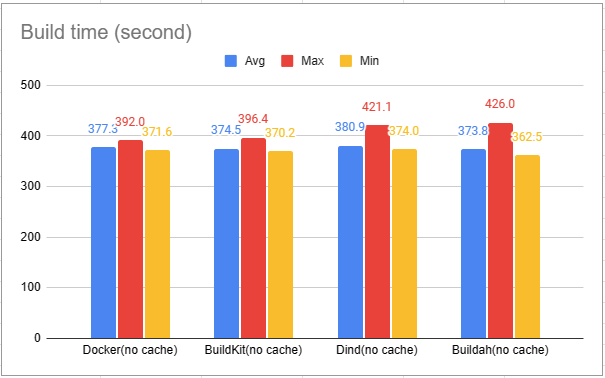
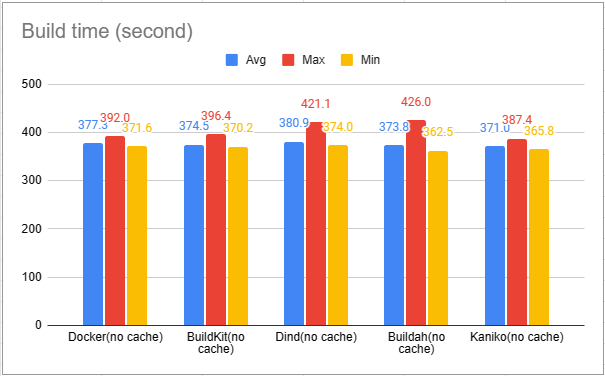
fix: article typo and some image

diff --git a/docs/self-paced-labs/tool_compare_lab/index.md b/docs/self-paced-labs/tool_compare_lab/index.md
@@ -6,24 +6,26 @@ description: ""
 
 ## 簡介
 
-在這篇文章中，將會簡介目前常見的幾種 Image Building Tools，分別是目前最常見的 Docker 以及新版本內建的 Buildkit、以及常被用在 CICD 過程中的三套 Build tool：Dind(Docker in Docker), Buildah, Kaniko 作比較。
+在這篇文章中，將會簡介目前常見的五種 Image Building Tools，分別是目前最常見的 Docker 以及新版本內建的 Buildkit、以及常被用在 CICD 過程中的三套 Build tool：Dind(Docker in Docker), Buildah, Kaniko 作比較。
 
-並比較這些工具在 build image 時花費的系統資源：
+比較這些上述五項  Image Building Tools 在 build image 時所花費的系統資源，如下述三項指標：
 
-- Memory
+- Memory(有 cache/ 無 cache)
 - Build Time
 - CPU time
-  以及不同工具最後 build 出的 Image Size 是否有所不同，以及探討其中的差異。
+
+並比較 build 完成後，Image Size 是否有所不同，並探討其中的差異。
 
 ## 測試環境
 
 本次 lab 統一使用 CNTUG Infra Labs OpenStack 上的 VM，規格如下：
 
-- Ubuntu 20.04
-- 4 cores vCPU
-- RAM：4G
+- Linux version: Ubuntu 20.04
+- vCPU: 4 cores
+- RAM：4 G
 - total Disk：30 GB
-- 測試方法會在下方 Labs 區塊中詳述
+
+測試方法會在下方 Labs 區塊中詳述
 
 ## 測試的 Image
 
@@ -42,7 +44,7 @@ description: ""
 
 ### Buildkit
 
-Buildkit 為 Docker 推出的實驗性功能，主打更高效能、並行的運作方式，也針對 cache, storage management 等功能做了許多優化，加速了以往使用 docker build image 的流程以及最佳化使用體驗，預設內建在 `Docker 18.09` 版本之後的 docker 內，啟用方式也十分簡易，`DOCKER_BUILDKIT=1 docker build .`即可使用，在 MacOS/Linux 環境下，也可透過建立 `/etc/docker/daemon.json`，並加入以下設定啟用 Buildkit。
+Buildkit 為 Docker 推出的實驗性功能，主打更高效能、並行的運作方式，也針對 cache, storage management 等功能做了許多優化，加速了以往使用 Docker build image 的流程以及最佳化使用體驗，預設內建在 `Docker 18.09` 版本之後的 Docker 內，啟用方式也十分簡易，`DOCKER_BUILDKIT=1 docker build .` 即可使用，在 MacOS/Linux 環境下，也可透過建立 `/etc/docker/daemon.json`，並加入以下設定啟用 Buildkit。
 
 ```
 {
@@ -54,7 +56,7 @@ Buildkit 為 Docker 推出的實驗性功能，主打更高效能、並行的運
 
 ### DinD
 
-全名為 Docker-in-Docker，顧名思義，在 docker 中再運行一個 docker container，因此在運行起來的 container 內，也能執行 `docker` 指令，通常會在運行 CICD pipeline 時使用，好處是環境隔離，每次會起新的 Docker daemon，但 build 的時候無法共享 cache，但可以透過 `cache-from` 去指定特定的 image 加入 build 流程。
+全名為 Docker-in-Docker，顧名思義，在 Docker 中再運行一個 Docker container，因此在運行起來的 container 內，也能執行 `docker` 指令，通常會在運行 CICD pipeline 時使用，好處是環境隔離，每次會起新的 Docker daemon，但 build 的時候無法共享 cache，但可以透過 `cache-from` 去指定特定的 image 加入 build 流程。
 
 ### Buildah
 
@@ -72,7 +74,7 @@ Buildah 是由 Red Hat 開發，幫助開發者 build 相容 OCI 標準的 conta
 
 - CPU：在計算 CPU 使用率的部分，透過 `Pseudo-files` 的方式，每次在 build image 時，讀取 `/sys/fs/cgroup/cpuacct/<TOOL_NAME>/$CONTAINER_ID/cpuacct.usage` 去比較 CPU 使用的資源量。
 - Memory：使用 time 指令 `/usr/bin/time -v` 列出單一指令消耗的資源，每項工具以同樣的 build 指令執行 15 次，比較最大值、最小值、平均值。
-- Image size：在比較過多套 container image 分析工具後，選擇使用 docker 內建的列出 `docker image ls` 查看 image size。
+- Image size：在比較過多套 container image 分析工具後，選擇使用 Docker 內建的列出 `docker image ls` 查看 image size。
 - build time: 使用 time 指令 `/usr/bin/time -v` 查看其中的 `Elapsed (wall clock) time`，同樣比較最大值、最小值、平均值。
 
 ### Docker
@@ -86,18 +88,21 @@ Buildah 是由 Red Hat 開發，幫助開發者 build 相容 OCI 標準的 conta
 
 ### DinD
 
-首先運行一個 dind container，並將 Dockerfile 等內容 mount 到 container 內，並開 shell 進到 dind container 中，再 build image，同樣比較有無 layer caching
+首先運行一個 dind container，並將 Dockerfile 等內容 mount 到 container 內，並開 shell 進到 dind container 中，再 build image，同樣比較有無 layer caching，此處使用 `--cache-from` 前面 build 好的 image 以加速 build 流程。
 
 ```shell=
 $ docker run -v $PWD:/workspace --privileged -d --name dind-test docker:dind
 $ docker exec -it dind-test /bin/sh
 $ cd workspace
 $ docker build -t <image-name>:<version> .
+
+# build image with cache
+$ docker build -t <pre-existing-image-name>:<version> . --cache-from <image-name>:<version>
 ```
 
 ### Buildkit
 
-啟用 Buildkit 後，再下跟 docker build 一樣的指令即可，如果有下載 Docker Desktop，則預設就會啟用
+啟用 Buildkit 後，再下跟 `docker build` 一樣的指令即可，如果有下載 Docker Desktop，則預設就會啟用
 
 ```shell=
 $ DOCKER_BUILDKIT=1 docker build .
@@ -120,7 +125,7 @@ $ buildah images
 
 ### Kaniko
 
-使用 docker 運行 kaniko v1.8.1 的 container，並將 build 好的 image 推到 dockerhub 上
+使用 Docker 運行 kaniko v1.8.1 的 container，並將 build 好的 image 推到 Dockerhub 上
 
 ```shell=
 $ docker run -v $PWD:/workspace \
@@ -143,7 +148,7 @@ Docker>Dind>Buildkit>Kaniko>Buildah
 
 ### Memory
 
-比較所使用的 memory，並分為 build 過程是否有使用 cache
+比較所使用的 memory，並分為 build 過程是否有使用 cache，至於 kaniko 的部分因目前尚未實作 local layer caching，因此此處僅計算沒有 cache 的 memory 使用部分。
 
 - 平均/最大/最小使用資源，單位為 Mib
 
@@ -169,7 +174,7 @@ Build time 的部分同樣比較有無使用 cache 的情況。
 
 #### Docker cache 機制
 
-`dokcerfile` 中的每條指令可視為一個 layer，在 build 的過程中會比較 Layer 與之前是否相同，若相同在使用 docker build 時會顯示 `Using cache` 以及使用了哪個 cache，cahce 則會存在 `/var/lib/docker/image/overlay2/imagedb/content/sha256` 底下，若是使用 BuildKit，則會顯示 `CACHED`，並拿之前的 build cache 來用，可以大幅減少 build image 的時間，若是 `dockerfile` 內容有更改或是使用到的檔案內容有更改就不用使用到 cache，而是會重新 build layer，且後續的 layer 也會需要重新 build，因此在撰寫 dockerfile 時可以將比較常更改的內容放在 `dokcerfile` 尾端。
+`Dockerfile` 中的每條指令可視為一個 layer，在 build 的過程中會比較 Layer 與之前是否相同，若相同在使用 `docker build` 時會顯示 `Using cache` 以及使用了哪個 cache，cahce 則會存在 `/var/lib/docker/image/overlay2/imagedb/content/sha256` 底下，若是使用 BuildKit，則會顯示 `CACHED`，並拿之前的 build cache 來用，可以大幅減少 build image 的時間，若是 `Dockerfile` 內容有更改或是使用到的檔案內容有更改就不用使用到 cache，而是會重新 build layer，且後續的 layer 也會需要重新 build，因此在撰寫 `Dockerfile` 時可以將比較常更改的內容放在 `Dockerfile` 尾端。
 
 ### Image Size
 
@@ -183,10 +188,10 @@ Build time 的部分同樣比較有無使用 cache 的情況。
 
 |                             | DinD | Kaniko | Buildah | BuildKit |
 | :-------------------------- | ---- | ------ | :------ | -------- |
-| run without privileged mode | X    | X      | O       | O        |
-| local layer caching         | X    | X      | O       | O        |
+| Run without privileged mode | X    | O      | O       | O        |
+| Local layer caching         | X    | X      | O       | O        |
 | Remote layer caching        | O    | O      | O       | O        |
-| need dockerfile             | O    | O      | X       | O        |
+| Need dockerfile             | O    | O      | X       | O        |
 
 ## 小結
 
@@ -196,5 +201,5 @@ Build time 的部分同樣比較有無使用 cache 的情況。
 
 - Docker 官方文件：https://docs.docker.com/build/buildkit/
 - 關於 Dind 優缺點的分析：https://jpetazzo.github.io/2015/09/03/do-not-use-docker-in-docker-for-ci/
-- 如何蒐集 docker 使用的 metric：https://www.datadoghq.com/blog/how-to-collect-docker-metrics/
+- 如何蒐集 Docker 使用的 metric：https://www.datadoghq.com/blog/how-to-collect-docker-metrics/
 - 測試期間的原始資料：[raw data](https://docs.google.com/spreadsheets/d/1UVv--XWu7zvdlo2D7EHwB3yapG9JX-Pb-5uQwzEIwrY/edit#gid=1245208475)
